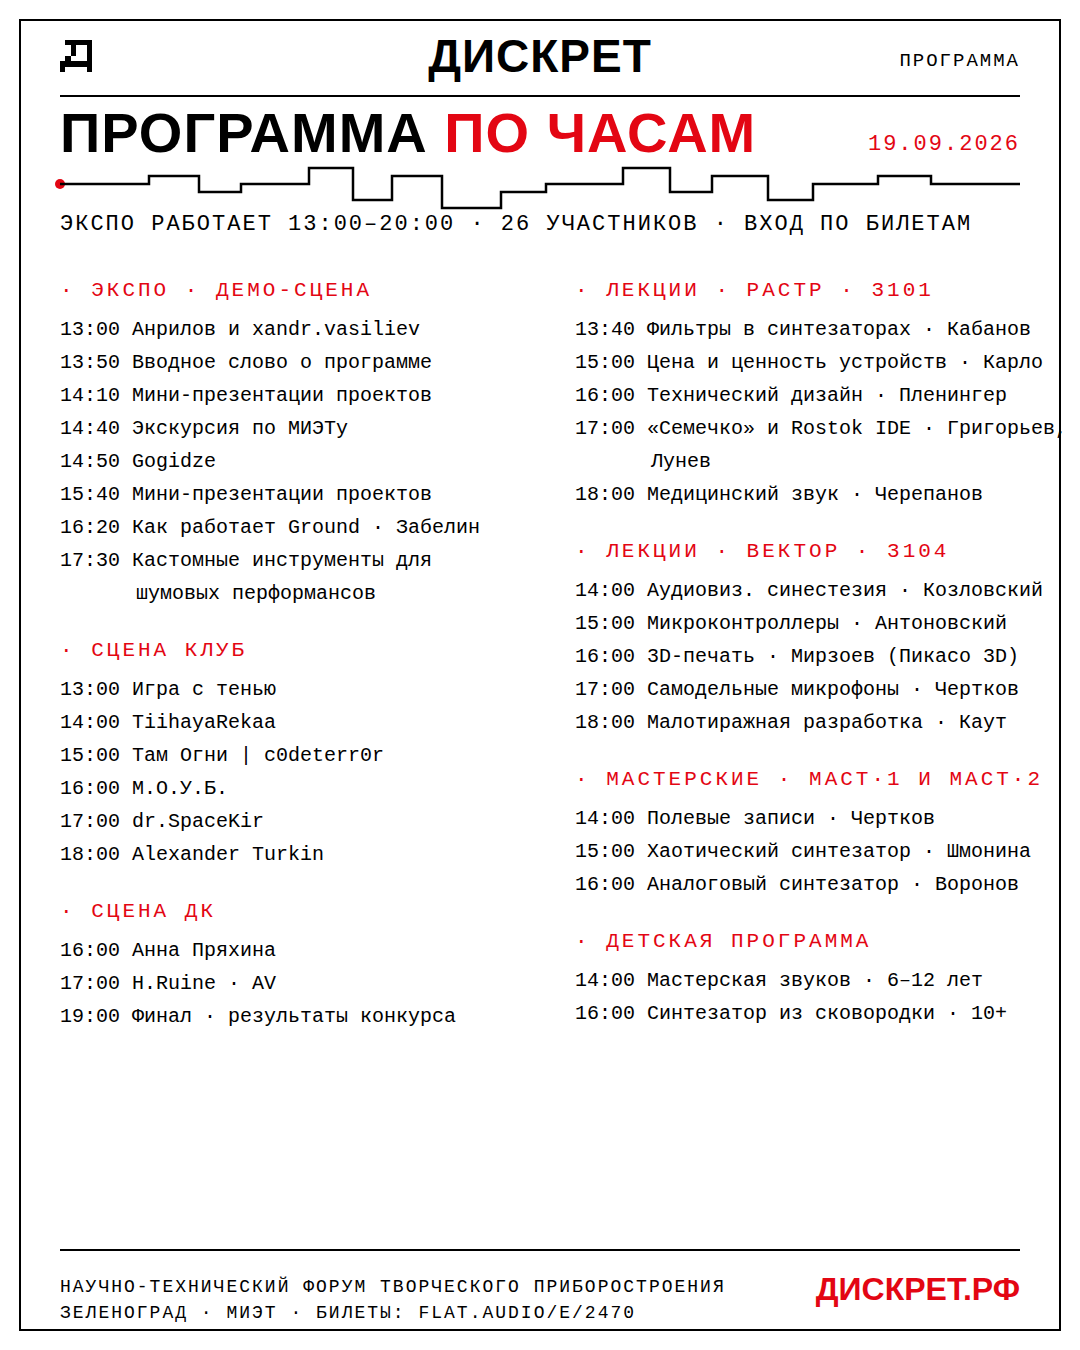
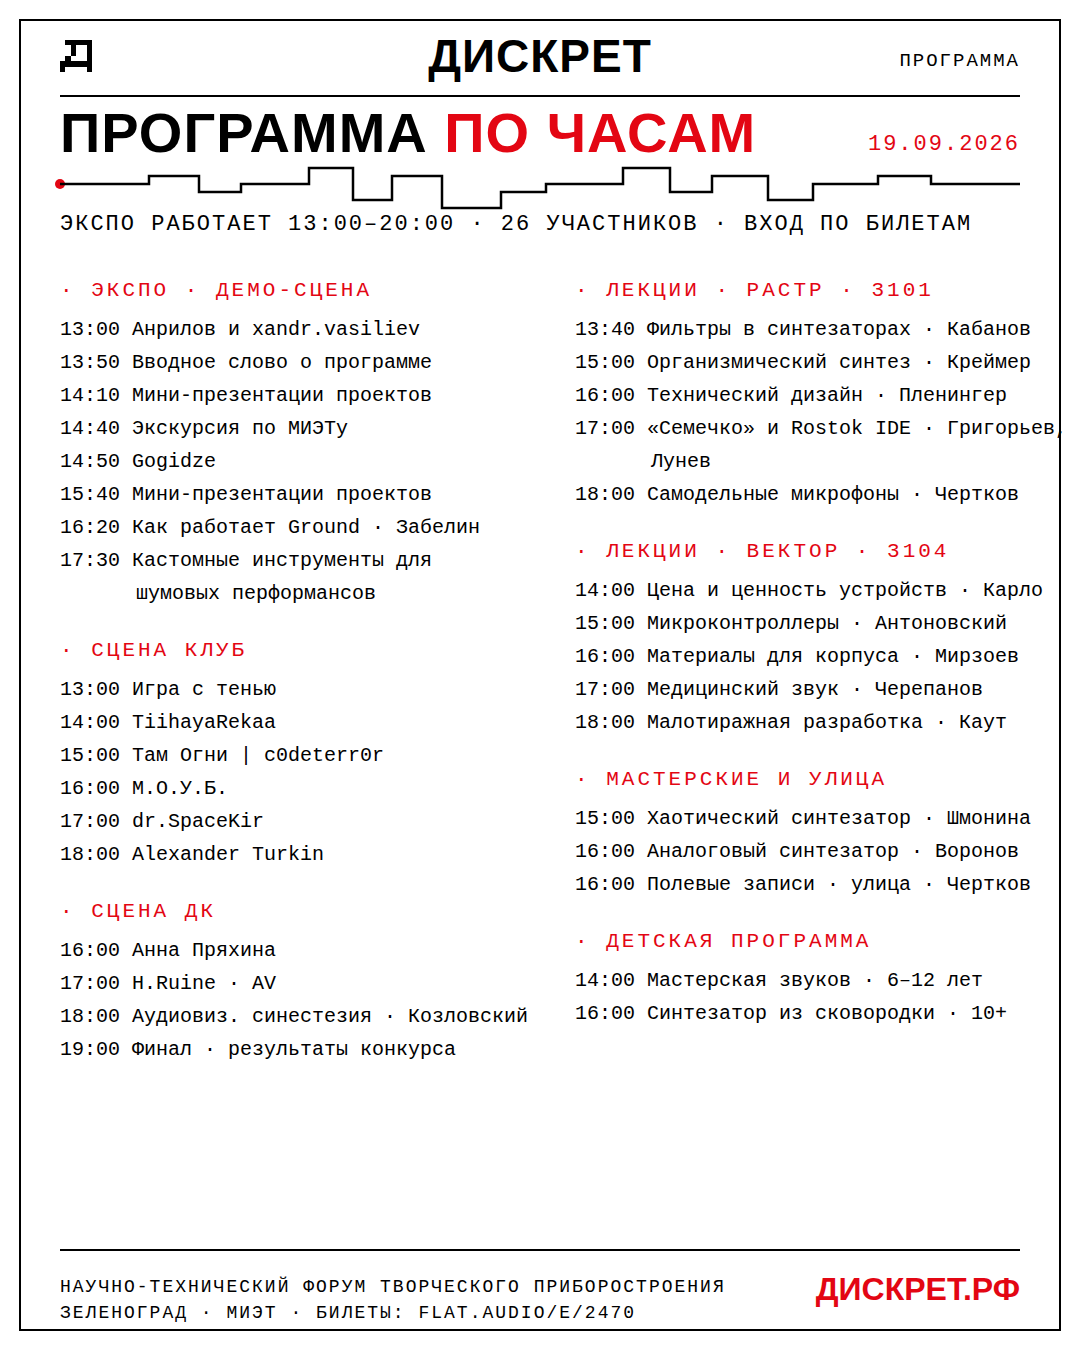
Расписание по сетке 04.09: перестановки лектория и локация УЛИЦА
Креймер в РАСТР 15:00, Карло в ВЕКТОР 14:00, Черепанов в ВЕКТОР 17:00,
Чертков-лекция в РАСТР 18:00, Козловский AV на СЦЕНУ ДК 18:00.
«Полевые записи» стали прогулкой на новой локации УЛИЦА (16:00–17:40,
с Креймером и экскурсоводом Чукаевым, 4567 р). Обновлены расписание и
страницы спикеров в приложении, карточки лектория и мастер-классов,
программа-лист, посты в контент-плане и lectures.md.

Claude-Session: https://claude.ai/code/session_01J7cakNvVwscKzgnd8yf78u

diff --git a/branding/app/index.html b/branding/app/index.html
@@ -601,7 +601,7 @@ const POSTS = [
 ];
 
 // ===== РАСПИСАНИЕ (по рабочей сетке форума, черновик) =====
-const ROOMS = { hall:"ЭКСПО·ДЕМО", sm:"СЦЕНА КЛУБ", sb:"СЦЕНА ДК", l1:"РАСТР", l2:"ВЕКТОР", w1:"МАСТ·1", w2:"МАСТ·2", kids:"ДЕТСКАЯ", all:"ВСЕ ЗАЛЫ" };
+const ROOMS = { hall:"ЭКСПО·ДЕМО", sm:"СЦЕНА КЛУБ", sb:"СЦЕНА ДК", l1:"РАСТР", l2:"ВЕКТОР", w1:"МАСТ·1", w2:"МАСТ·2", st:"УЛИЦА", kids:"ДЕТСКАЯ", all:"ВСЕ ЗАЛЫ" };
 // go: переключить вкладку · link: открыть карточку девайса
 // Лектории: РАСТР (3101) — темы для широкой аудитории, ВЕКТОР (3104) — технический язык
 const SCHED = [
@@ -611,15 +611,15 @@ const SCHED = [
   { t:"13:50", e:"14:10", title:"Вводное слово · экскурс по программе форума", who:"", room:"hall" },
   { t:"14:00", e:"", title:"TiihayaRekaa", who:"Катрин Моррисон", room:"sm", author:"tiihaya" },
   { t:"14:00", e:"15:00", title:"Мастерская звуков · дети 6–12 лет", who:"Олег Слуцкий · 876 ₽", room:"kids", author:"slutsky" },
-  { t:"14:00", e:"16:00", title:"Полевые записи", who:"Илья Чертков · 2345 ₽", room:"w2", author:"chertkov" },
+  { t:"16:00", e:"17:40", title:"Полевые записи · прогулка с инструктажем", who:"Илья Чертков, Влад Креймер, Павел Чукаев (экскурсовод) · 4567 ₽", room:"st", author:"chertkov" },
   { t:"13:40", e:"15:00", title:"Бесконденсаторные фильтры в синтезаторах: особенности, история, перспективы", who:"Владимир Кабанов · ПРИБОР", room:"l1" },
-  { t:"14:00", e:"15:00", title:"Аудиовизуальная синестезия", who:"Николай Козловский", room:"l2" },
+  { t:"14:00", e:"15:00", title:"Цена и ценность музыкальных устройств", who:"Евгений Карло", room:"l2" },
   { t:"14:10", e:"14:40", title:"Мини-презентация проектов", who:"участники экспо", room:"hall", go:"devices" },
   { t:"14:40", e:"14:50", title:"Экскурсия по МИЭТу", who:"", room:"hall" },
   { t:"14:50", e:"15:40", title:"Gogidze", who:"", room:"hall", author:"gogidze" },
   { t:"15:00", e:"", title:"Там Огни | c0deterr0r", who:"Александр Гриднев", room:"sm", author:"codeterror" },
   { t:"15:00", e:"18:00", title:"Воркшоп · Хаотический синтезатор", who:"Полина Шмонина · 4567 ₽", room:"w1", author:"polina" },
-  { t:"15:00", e:"16:00", title:"Цена и ценность музыкальных устройств", who:"Евгений Карло", room:"l1" },
+  { t:"15:00", e:"16:00", title:"Организмический синтез как поэтический предвестник нового измерения науки", who:"Влад Креймер · SOMA", room:"l1", author:"kremer" },
   { t:"15:00", e:"16:00", title:"Микроконтроллеры и их применение — в технике, в жизни, в музыке", who:"Иван Антоновский · АНГСТРЕМ", room:"l2" },
   { t:"15:40", e:"16:10", title:"Мини-презентация проектов", who:"участники экспо", room:"hall", go:"devices" },
   { t:"16:00", e:"", title:"М.О.У.Б.", who:"Игорь Прокофьев", room:"sm", author:"moub" },
@@ -627,17 +627,17 @@ const SCHED = [
   { t:"16:00", e:"19:00", title:"Воркшоп · Аналоговый синтезатор на интегральной микросхеме", who:"Егор Воронов · 4567 ₽", room:"w2", author:"voronov" },
   { t:"16:00", e:"17:00", title:"Синтезатор из сковородки · от 10 до 99 лет", who:"Олег Слуцкий · 987 ₽", room:"kids", author:"slutsky" },
   { t:"16:00", e:"17:00", title:"Технический дизайн: дьявол в деталях", who:"Александр Пленингер · онлайн-лекция", room:"l1" },
-  { t:"16:00", e:"17:00", title:"3D-печать в музыкальной электронике: как выбрать материал и спроектировать деталь", who:"Игорь Мирзоев · Пикасо 3D", room:"l2" },
+  { t:"16:00", e:"17:00", title:"Выбор материалов для корпуса", who:"Игорь Мирзоев · Пикасо 3D", room:"l2" },
   { t:"16:20", e:"17:15", title:"Как работает Ground", who:"Никита Забелин", room:"hall" },
   { t:"17:00", e:"", title:"dr.SpaceKir", who:"", room:"sm", author:"spacekir" },
   { t:"17:00", e:"17:45", title:"H.Ruine · AV", who:"Влад Лисицкий", room:"sb", author:"lisitsky" },
   { t:"17:00", e:"18:00", title:"DSP-платформа «Семечко» и студия разработки Rostok IDE", who:"Александр Григорьев и Захар Лунев", room:"l1" },
-  { t:"17:00", e:"18:00", title:"Творческое применение самодельных микрофонов", who:"Илья Чертков", room:"l2", author:"chertkov" },
+  { t:"17:00", e:"18:00", title:"Медицинский звук: использование в звукоэкспериментальных целях непрофильной техники", who:"Владимир Черепанов", room:"l2" },
   { t:"17:30", e:"18:30", title:"Кастомные инструменты для шумовых перформансов", who:"Георгий Орлов-Давыдовский", room:"hall" },
   { t:"18:00", e:"", title:"Alexander Turkin", who:"", room:"sm", author:"turkin" },
-  { t:"18:00", e:"19:00", title:"Медицинский звук: использование в звукоэкспериментальных целях непрофильной техники", who:"Владимир Черепанов", room:"l1" },
+  { t:"18:00", e:"19:00", title:"Творческое применение самодельных микрофонов", who:"Илья Чертков", room:"l1", author:"chertkov" },
+  { t:"18:00", e:"19:00", title:"Аудиовизуальная синестезия · AV", who:"Николай Козловский", room:"sb" },
   { t:"18:00", e:"19:00", title:"Опыт малотиражной разработки", who:"Алекс Каут · Boring modular", room:"l2" },
-  { t:"", e:"", title:"Организмический синтез как поэтический предвестник нового измерения науки", who:"Влад Креймер · SOMA · время уточняется", room:"l1", author:"kremer" },
   { t:"19:00", e:"20:00", title:"Финальное выступление · результаты конкурса", who:"", room:"sb" },
 ];
 
@@ -651,8 +651,8 @@ const A = [
   { id:"cherto", name:"Илья Черто", role:"Лекция · Самодельные микрофоны и датчики", session:"ЛЕКЦИЯ", room:"l1", time:"17:00–17:45", photos:[], links:[], desc:"" },
   { id:"polina", name:"Полина Шмонина", role:"Воркшоп · Хаотический синтезатор · 4567 ₽", session:"ВОРКШОП", room:"w1", time:"15:00–18:00", photos:[], links:[],
     desc:"Каждый участник соберёт авторский шумовой синтезатор методом circuit bending — экспериментального изменения готовых электронных плат. Вместо заранее заданного результата — исследование схемы: неожиданные связи, сбои, глитчи и обратная связь превращаются в выразительный звуковой материал. Основа устройства — два модуля: простой звукоусилитель и эхо-процессор для караоке; участники модифицируют платы, создадут петли обратной связи, добавят элементы управления и сенсорные контакты, реагирующие на прикосновение. Рассчитано на начинающих: базовые приёмы пайки, компоненты, принципы экспериментальной электроники. Собранный генератор шумовых текстур каждый забирает с собой." },
-  { id:"chertkov", name:"Илья Чертков", role:"Полевые записи · мастерская · 2345 ₽", session:"ВОРКШОП + ЛЕКЦИЯ", room:"w2", time:"14:00–16:00 и 17:00", photos:[], links:[],
-    desc:"Владимирский музыкальный продюсер (mal0, WALM, ошуюю), номинант на Премию Курёхина, блогер и лектор («Культура», «Новая музыка» на Новой сцене Александринского).\n\nМастерская полевых записей (14:00–16:00, МАСТ·2, 2345 ₽): новые необычные способы звукозаписи — запишете собственные звуки и увидите, как быстро встроить их в трек.\n\nЛекция «Творческое применение самодельных микрофонов» (17:00, зал ВЕКТОР): о необычных микрофонах и о том, как записанные шумы можно использовать в современной музыке." },
+  { id:"chertkov", name:"Илья Чертков", role:"Полевые записи · прогулка · 4567 ₽", session:"ПРОГУЛКА + ЛЕКЦИЯ", room:"st", time:"16:00–17:40 и 18:00", photos:[], links:[],
+    desc:"Владимирский музыкальный продюсер (mal0, WALM, ошуюю), номинант на Премию Курёхина, блогер и лектор («Культура», «Новая музыка» на Новой сцене Александринского).\n\nПолевые записи — прогулка (16:00–17:40, локация УЛИЦА, 4567 ₽): 30-минутный инструктаж и запись звуков города на прогулке. Вместе с Ильёй — Влад Креймер (SOMA) и экскурсовод Павел Чукаев.\n\nЛекция «Творческое применение самодельных микрофонов» (18:00, зал РАСТР): о необычных микрофонах и о том, как записанные шумы можно использовать в современной музыке." },
   { id:"voronov", name:"Егор Воронов", role:"Воркшоп · Аналоговый синтезатор на интегральной микросхеме · 4567 ₽", session:"ВОРКШОП", room:"w2", time:"16:00–19:00", photos:[], links:[],
     desc:"Каждый участник соберёт собственный аналоговый синтезатор на интегральной микросхеме. Занятие подойдёт новичкам и любителям электроники, которые хотят освоить пайку на практике и получить законченное работающее устройство: выводные компоненты, назначение основных деталей, последовательность сборки платы; желающие попробуют монтаж SMD. Предварительный опыт не обязателен — ведущий объяснит приёмы и поможет на каждом этапе. Все компоненты включены в стоимость; собранный синтезатор участник проверяет в работе и забирает с собой." },
   { id:"totoro", name:"Карманная драм-машина", role:"Воркшоп · сборка своими руками · 5000 ₽", session:"ВОРКШОП", room:"w2", time:"16:00–19:00", photos:[], links:[], desc:"Воркшоп по сборке карманной драм-машины своими руками." },
@@ -681,9 +681,9 @@ const A = [
   { id:"turkin", name:"Alexander Turkin", role:"Живая электроника · Pulsar-23", session:"ЛАЙВ", room:"sm", time:"18:00", photos:[],
     links:[{t:"INSTAGRAM",u:"https://instagram.com/a.atu"}],
     desc:"Живая электроника Александра Туркина: Pulsar-23, педали эффектов и микшер — весь звук собирается на столе, вживую." },
-  { id:"kremer", name:"Влад Креймер", role:"Основатель SOMA Laboratory", session:"ЛЕКЦИЯ · SOMA", room:"", time:"уточняется", photos:[],
+  { id:"kremer", name:"Влад Креймер", role:"Основатель SOMA Laboratory", session:"ЛЕКЦИЯ · SOMA", room:"l1", time:"15:00–16:00", photos:[],
     links:[{t:"САЙТ",u:"https://somasynths.com"}],
-    desc:"Инженер и музыкант, основатель SOMA Laboratory — лаборатории «организмических» инструментов: синтезатор Lyra-8, драм-машина Pulsar-23, широкополосный приёмник Ether, Terra и другие. Приборы SOMA известны музыкантам по всему миру; в основе подхода — инструмент как живой организм, с которым исполнитель вступает в диалог.\n\nЛекция «Организмический синтез как поэтический предвестник нового измерения науки». Время уточняется." },
+    desc:"Инженер и музыкант, основатель SOMA Laboratory — лаборатории «организмических» инструментов: синтезатор Lyra-8, драм-машина Pulsar-23, широкополосный приёмник Ether, Terra и другие. Приборы SOMA известны музыкантам по всему миру; в основе подхода — инструмент как живой организм, с которым исполнитель вступает в диалог.\n\nЛекция «Организмический синтез как поэтический предвестник нового измерения науки» — зал РАСТР, 15:00–16:00.\n\nТакже участвует в прогулке «Полевые записи» (16:00–17:40, локация УЛИЦА)." },
   { id:"vgrigoriev", name:"Вячеслав Григорьев", role:"Основатель MAD SOUND FACTORY и VG-line", session:"", room:"", time:"", photos:[],
     links:[{t:"MAD SOUND FACTORY",u:"https://madsoundfactory.com"},{t:"VG-LINE",u:"https://instagram.com/vg.line/"}],
     desc:"Разрабатывает собственные музыкальные инструменты — самостоятельно и в сотрудничестве с брендами и музыкантами. Производит свои инструменты и оказывает услуги по производству другим брендам. Регион — ЕАЭС." },
